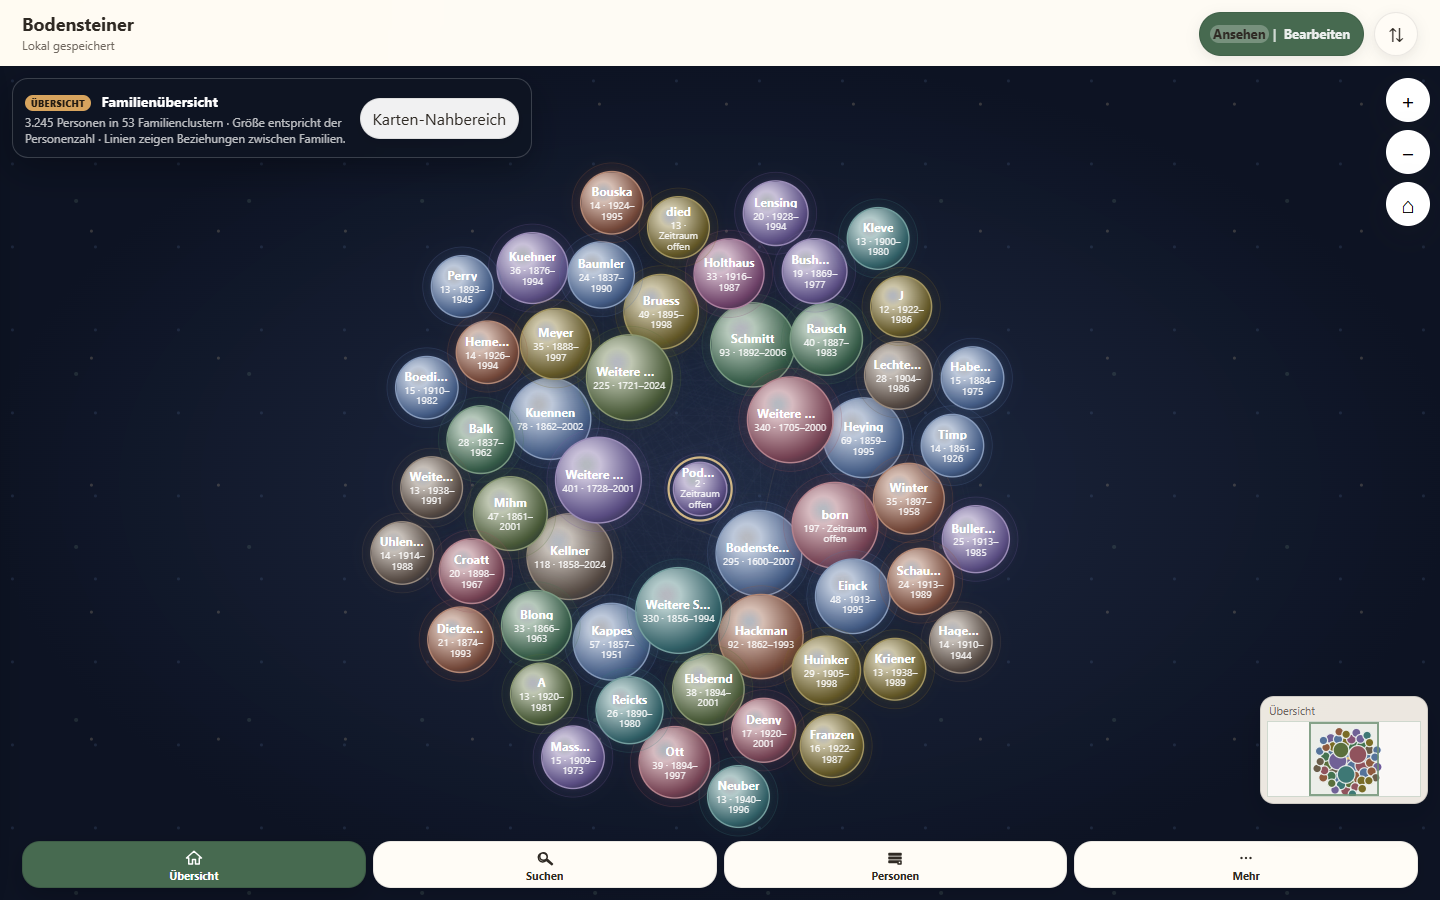
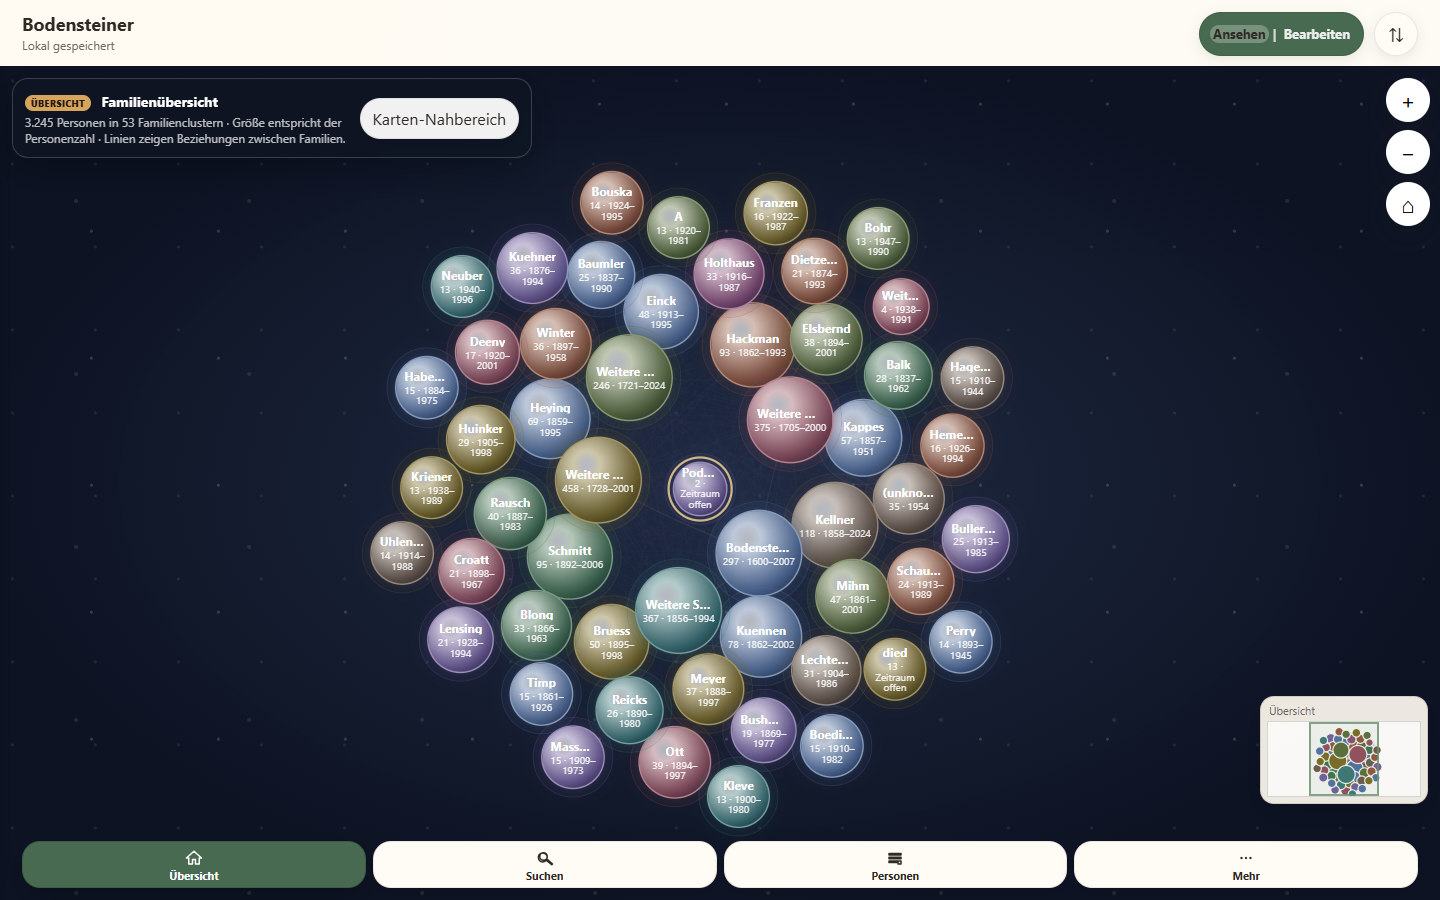
Clean imported born surname artifacts

Changed region(s): [[0.2812, 0.1867, 0.7188, 0.9022], [0.9062, 0.8089, 0.9688, 0.8711]]

diff --git a/tests/born-surname-cleanup.spec.js b/tests/born-surname-cleanup.spec.js
@@ -1,0 +1,90 @@
+const { test, expect } = require('@playwright/test');
+const {
+  analyzeTree,
+  cleanBornSurnameArtifact
+} = require('../scripts/clean-born-surname-artifacts.cjs');
+
+test('PDF-Satzfragment born wird entfernt und der echte Nachname rekonstruiert', () => {
+  const person = {
+    id: 'regular',
+    name: 'Aaron Souhrada. He was born',
+    firstName: 'Aaron Souhrada. He was',
+    lastName: 'born',
+    location: '',
+    note: ''
+  };
+
+  expect(cleanBornSurnameArtifact(person)).not.toBeNull();
+  expect(person).toMatchObject({
+    name: 'Aaron Souhrada',
+    firstName: 'Aaron',
+    lastName: 'Souhrada'
+  });
+  expect(analyzeTree({ people: [person] })).toMatchObject({
+    artifacts: [],
+    invalidBornSurnames: []
+  });
+});
+
+test('echter Familienname Born bleibt erhalten', () => {
+  const person = {
+    id: 'real-born',
+    name: 'Michael Born. He was born',
+    firstName: 'Michael Born. He was',
+    lastName: 'born',
+    location: '',
+    note: ''
+  };
+
+  cleanBornSurnameArtifact(person);
+  expect(person).toMatchObject({ name: 'Michael Born', firstName: 'Michael', lastName: 'Born' });
+  expect(analyzeTree({ people: [person] }).genuineBornSurnames).toHaveLength(1);
+});
+
+test('Orts- und unsichere Datumsfragmente gehen bei der Bereinigung nicht verloren', () => {
+  const located = {
+    id: 'located',
+    name: 'Celeste R. Weaver in Bar Harbor, Hancock County, Maine. She was born',
+    firstName: '',
+    lastName: 'born',
+    location: '',
+    note: ''
+  };
+  const dated = {
+    id: 'dated',
+    name: 'Dorothy Barbara Busta November 18, 1967. She was born',
+    firstName: '',
+    lastName: 'born',
+    location: '',
+    note: ''
+  };
+
+  cleanBornSurnameArtifact(located);
+  cleanBornSurnameArtifact(dated);
+  expect(located).toMatchObject({
+    name: 'Celeste R. Weaver',
+    firstName: 'Celeste R.',
+    lastName: 'Weaver',
+    location: 'Bar Harbor, Hancock County, Maine'
+  });
+  expect(dated).toMatchObject({
+    name: 'Dorothy Barbara Busta',
+    firstName: 'Dorothy Barbara',
+    lastName: 'Busta'
+  });
+  expect(dated.note).toContain('November 18, 1967');
+});
+
+test('eingeschobene PDF-Seitenköpfe werden aus dem Namen entfernt', () => {
+  const person = {
+    id: 'ocr-header',
+    name: 'Annette M. Descendants of : Page 187 of 2 Joseph Bodensteiner Nolte. She was born',
+    firstName: '',
+    lastName: 'born',
+    location: '',
+    note: ''
+  };
+
+  cleanBornSurnameArtifact(person);
+  expect(person).toMatchObject({ name: 'Annette M. Nolte', firstName: 'Annette M.', lastName: 'Nolte' });
+});

diff --git a/tests/familybook-v5.spec.js b/tests/familybook-v5.spec.js
@@ -36,6 +36,15 @@ test('bereinigter US-Zweig lädt, ist verknüpft und visuell prüfbar', async ({
   const importedState = await page.evaluate(() => window.__uxDebug.getDataSnapshot());
   expect(importedState.people.filter(person => !person.pool)).toHaveLength(3245);
   expect(importedState.people.filter(person => person.pool)).toHaveLength(1093);
+  expect(importedState.people.filter(person =>
+    String(person.lastName || '').toLowerCase() === 'born'
+    && !/\bBorn$/i.test(String(person.name || '').trim())
+  )).toHaveLength(0);
+  expect(importedState.people.find(person => person.id === 'fbx9913')).toMatchObject({
+    name: 'Michael Born',
+    firstName: 'Michael',
+    lastName: 'Born'
+  });
   expect(importedState.people.find(person => person.id === 'fb0001')?.parents).toEqual(['fbbridge0001']);
   expect(importedState.people.find(person => person.id === 'fbbridge0001')?.parents).toEqual(['p334', 'p335']);
   await expect.poll(

diff --git a/docs/data-cleanup-born-surnames.md b/docs/data-cleanup-born-surnames.md
@@ -1,0 +1,43 @@
+# Datenbereinigung: fehlerhafter Nachname „born“
+
+Stand: 2. August 2026
+
+## Ursache
+
+Beim Import des englischen Familienbuch-PDFs wurden Satzanfänge wie
+`He was born` und `She was born` teilweise an den Personennamen angehängt.
+Die nachfolgende Namenszerlegung interpretierte dadurch `born` als Nachnamen.
+
+## Ergebnis
+
+Bereinigt wurden jeweils 304 Personen in:
+
+- `familienbuch_bodensteiner_full_extension_v4.json`
+- `stammbaum_mit_familienbuch_full_v4.json`
+- `stammbaum_mit_familienbuch_full_v5_bereinigt.json`
+
+Dabei wurden `name`, `firstName` und `lastName` neu aus dem bereinigten Namen
+gebildet. Zwei im Namensfeld enthaltene Ortsangaben wurden in `location`
+übernommen. Das nicht eindeutig zuordenbare Datum `November 18, 1967` wurde
+nicht als Geburts- oder Heiratsdatum geraten, sondern als
+`[Namensbereinigung]`-Hinweis in der betroffenen Notiz erhalten.
+
+Nach der Bereinigung:
+
+- 0 verbliebene PDF-Satzfragmente `He/She was born` in Personennamen
+- 0 fehlerhafte Personen mit Nachname `born`
+- 1 echter Familienname `Born`: `Michael Born` (`fbx9913`)
+
+## Reproduzierbare Prüfung
+
+```powershell
+node scripts\clean-born-surname-artifacts.cjs --check
+npx playwright test tests/born-surname-cleanup.spec.js tests/familybook-v5.spec.js --workers=1
+```
+
+Die Bereinigung kann mit folgendem Befehl erneut auf die drei lokalen
+Familienbuchdateien angewendet werden; sie ist idempotent:
+
+```powershell
+node scripts\clean-born-surname-artifacts.cjs
+```
